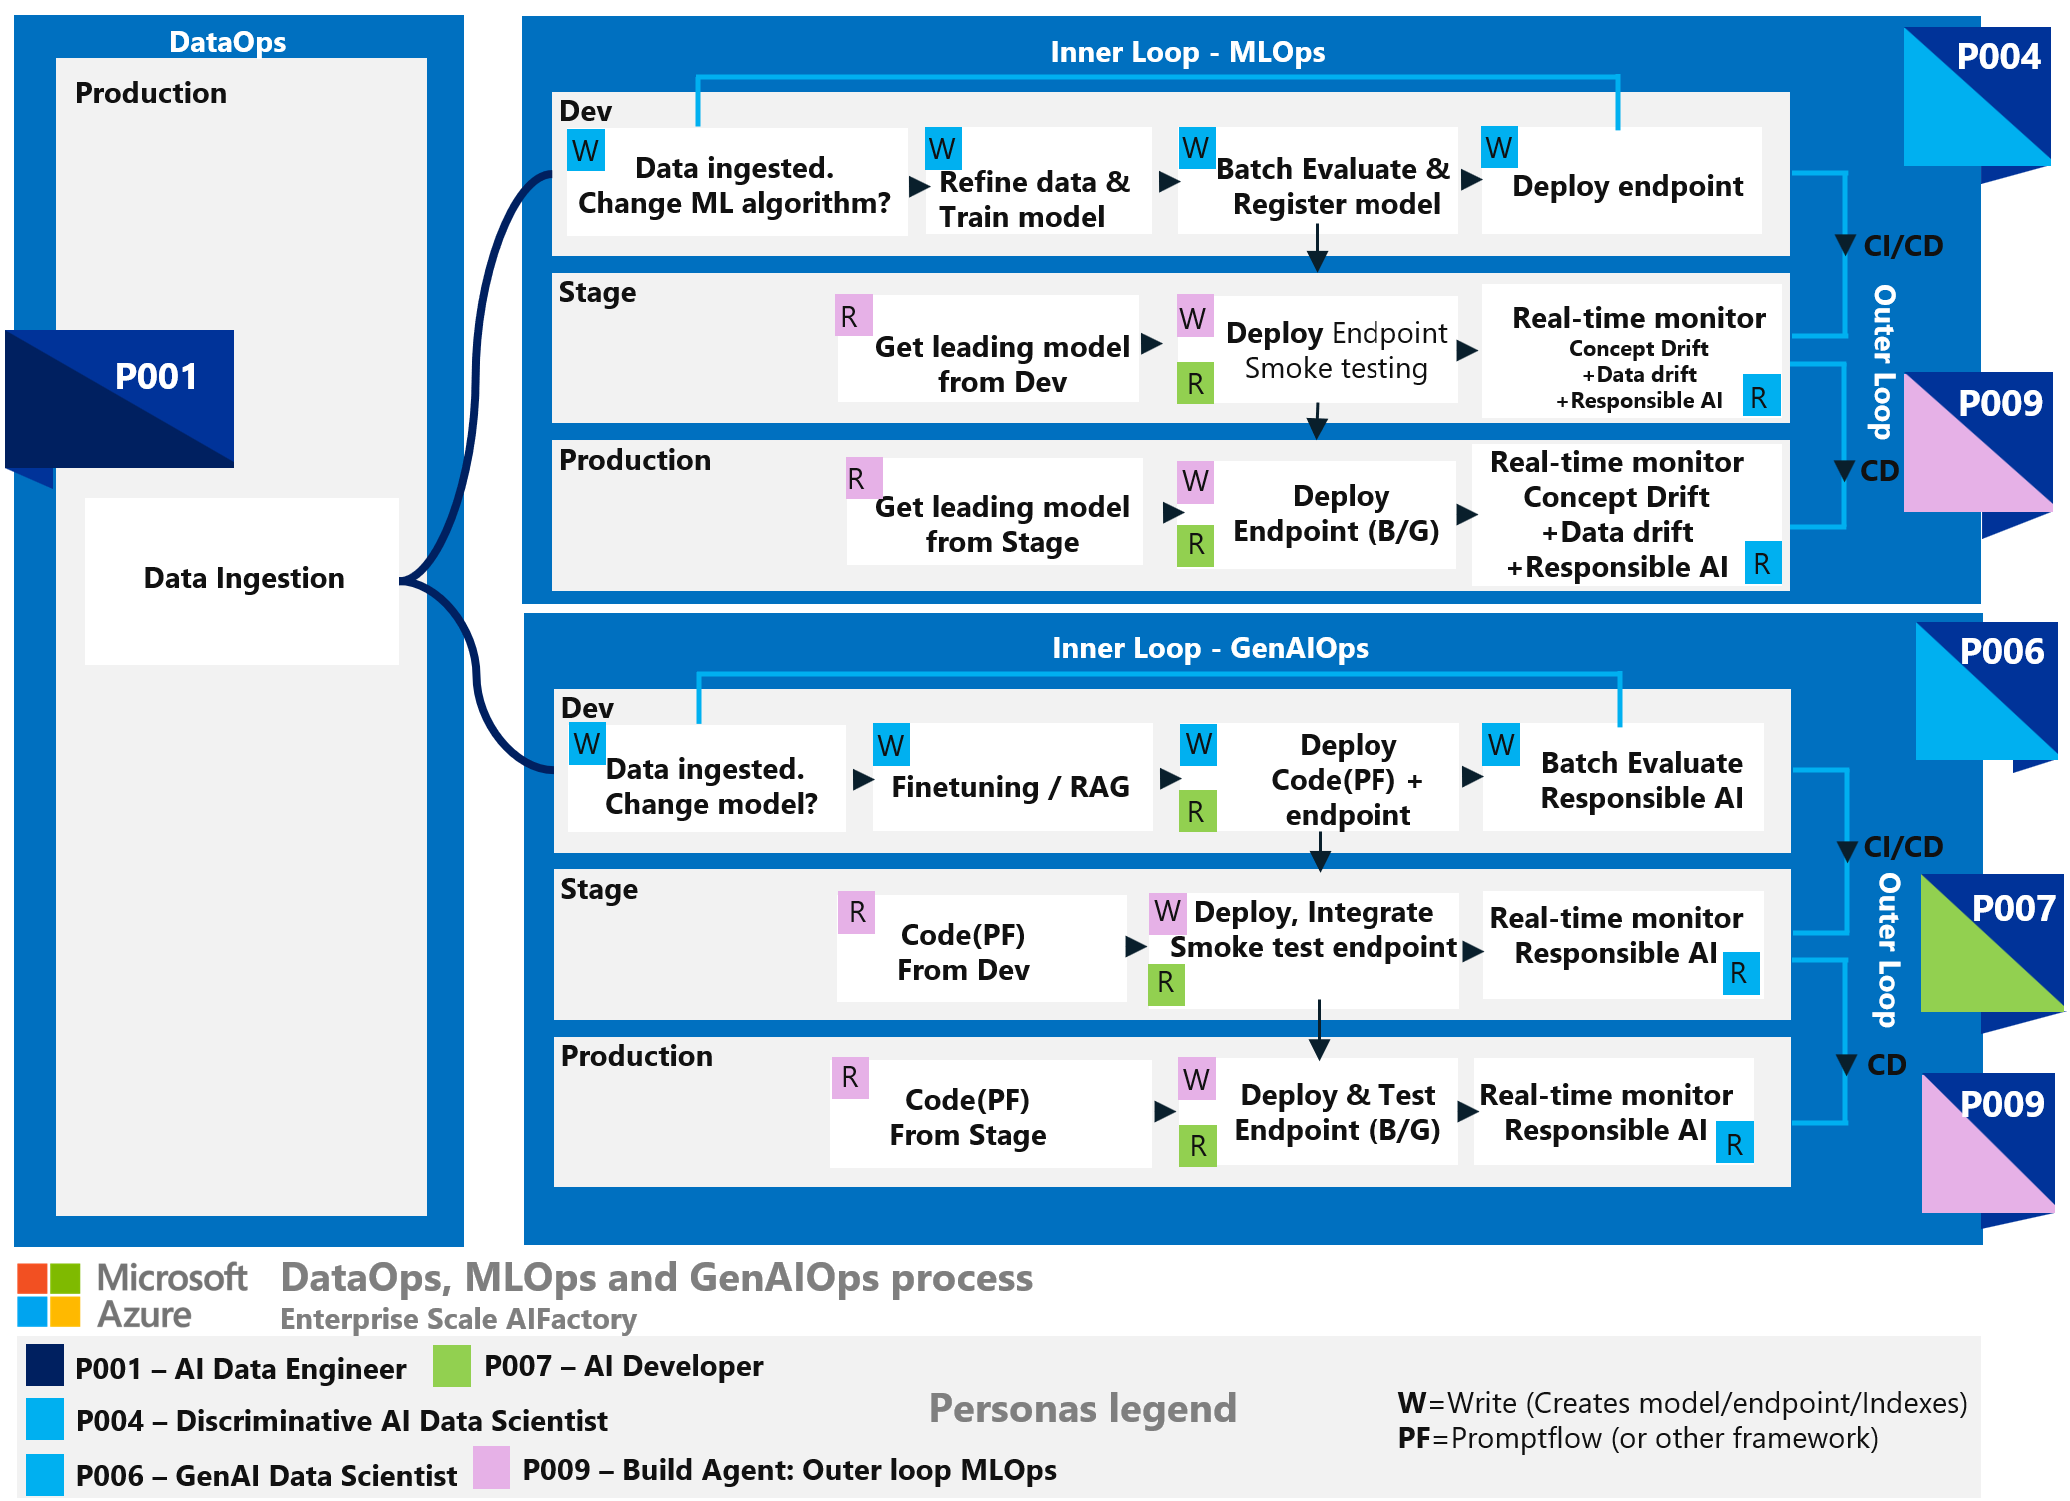
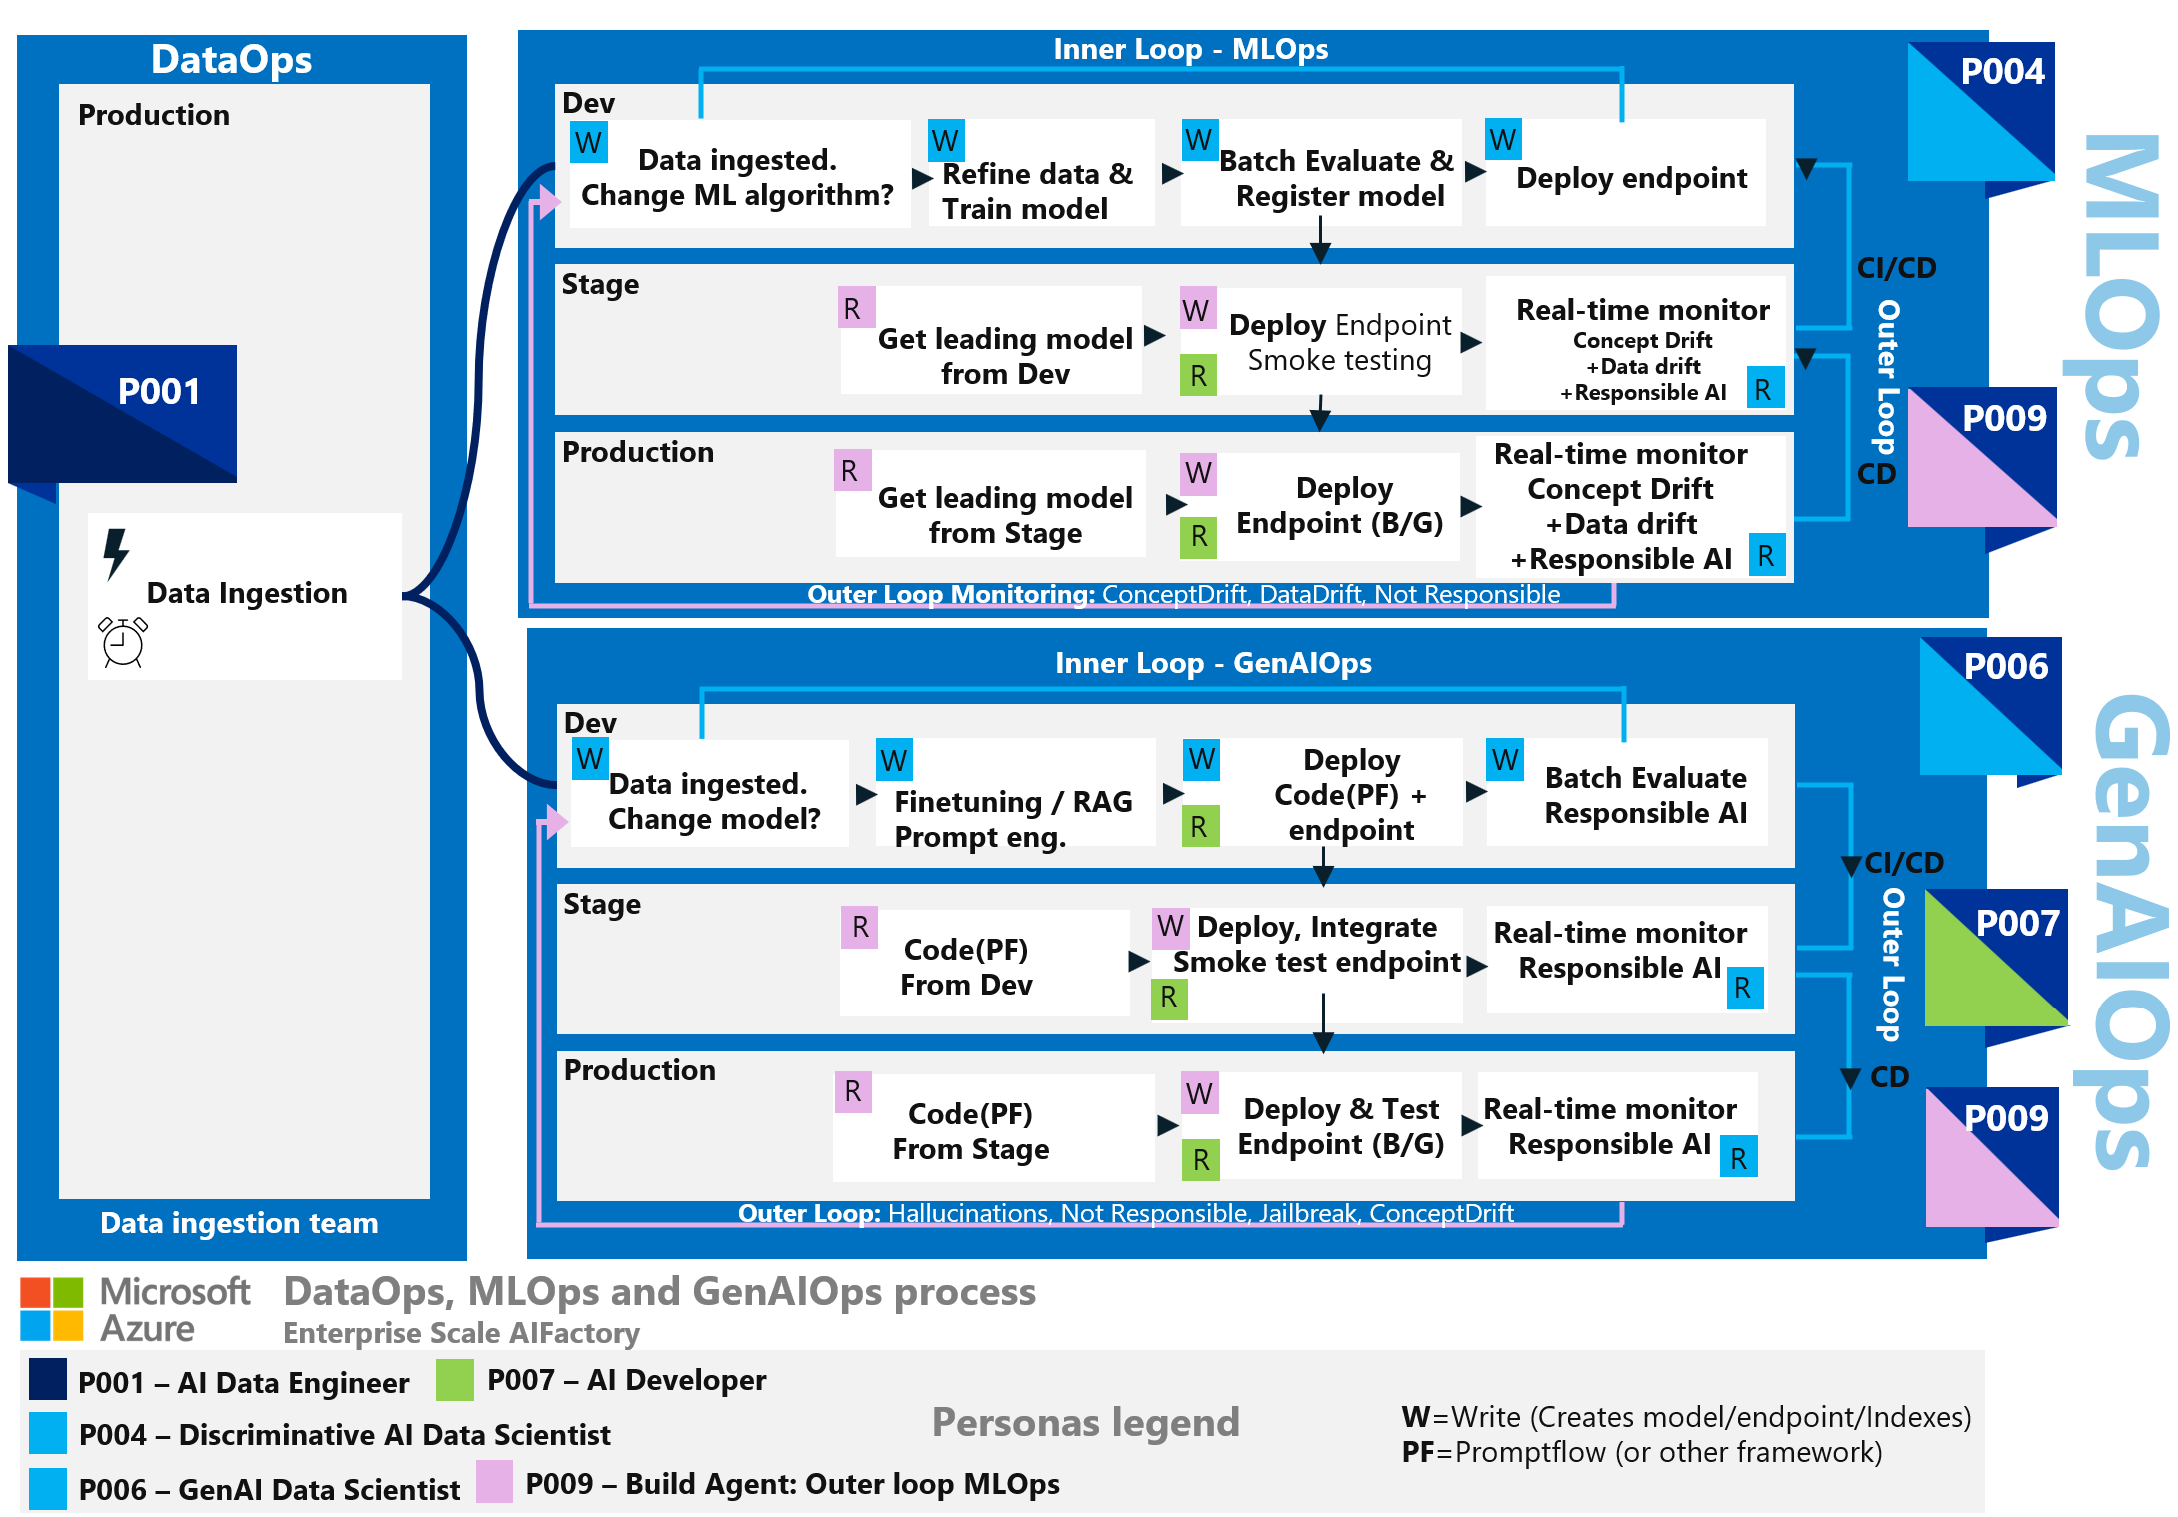
docs

diff --git a/README.md b/README.md
@@ -1,6 +1,6 @@
 # Project: azure-enterprise-scale-ml (ESML) AI Factory 
 The `Enterprise Scale AI Factory` is a plug and play solution that automates the provisioning, deployment, and management of AI projects on Azure with a template way of working.
-- Plug and play accelerator for: DataOps, MLOps, LLMOps, enterprise scale environment.
+- Plug and play accelerator for: DataOps, MLOps, GenAIOps, enterprise scale environment.
 
 ## Main purpose: 
 1) `Marry multiple best practices & accelerators:` It reuses multiple existing Microsoft accelerators/landingzone architecture and best practices such as CAF & WAF, and provides an end-2-end experience including Dev,Test, Prod environments.
@@ -23,7 +23,8 @@ The `Enterprise Scale AI Factory` is a plug and play solution that automates the
 
 -	`Microsoft: AI Factory (CAF/MLOps)` documentation : Machine learning operations - Cloud Adoption Framework | Microsoft Learn
     - https://learn.microsoft.com/en-us/azure/cloud-adoption-framework/ready/azure-best-practices/ai-machine-learning-mlops#ai-factory-for-organization-machine-learning-operations
-    
+
+<!-- 
 ## ESML AIFactory: The 2 project types
 Tehnically, there are two IaC automated project types in the AIFactory: ESML, GenAI. Here they are seen connected to PERSONAS.
 
@@ -38,6 +39,8 @@ Personas is used to:
 [Read more about *personas* ](./documentation/v2/20-29/25-personas.md)
 
 ![](./documentation/v2/10-19/images/10-personas-2-architectures.png)
+
+-->
 
 ## ESML AIFactory: Enterprise Scale Landing Zones Context (VWan option)
 The 2 project types, lives inside of the AIFactory landingzones. 
@@ -63,7 +66,7 @@ It is also organized via the four components of the ESML AIFactory:
 |-----------|--------|----|
 | 1) Infra:AIFactory | CoreTeam | 10-19 |
 | 2) Datalake template | All | 20-29,30-39 |
-| 3) Templates for: DataOps, MLOps, *LLMOps | All | 20-29, 30-39 |
+| 3) Templates for: DataOps, MLOps, *GenAIOps | All | 20-29, 30-39 |
 | 4) Accelerators: ESML SDK (Python, PySpark), RAG Chatbot, etc  |ProjectTeam | 30-39 |
 
 [LINK to Documentation](./documentation/readme.md)

diff --git a/documentation/readme.md b/documentation/readme.md
@@ -15,7 +15,7 @@ It is also organized via the four components of the ESML AIFactory:
 |-----------|------------|----------------|-------|----|
 | 1) Infra:AIFactory | Y | - | CoreTeam | 10-19 |
 | 2) Datalake template | Y | - | All | 20-29,30-39 |
-| 3) Templates for: DataOps, MLOps, *LLMOps | Y | - | All | 20-29, 30-39 |
+| 3) Templates for: DataOps, MLOps, *GenAIOps | Y | - | All | 20-29, 30-39 |
 | 4) Accelerators: ESML SDK (Python, PySpark), RAG Chatbot, etc  | Y | - |ProjectTeam | 30-39 |
 
 # Documenation Executive Summary VS Full documentation
@@ -29,6 +29,7 @@ The current page is only an *executive summary* of the documentation. Go here fo
 
 ![](./v2/10-19/images/14-eslz-full-1.png)
 
+<!-- 
 ## ESML AIFactory: The 2 project types and the AIFactory Personas
 Technically, The AIFactory has automation to setup 2 project types, a set of services glued together with private networking & RBAC, a team gets access to (automation process takes 35min), with templates for DataOps, MLOps or GenAIOps.
 
@@ -43,11 +44,13 @@ Personas is a tool the AIFactory uses to map *tools, processes and people*, to s
 
 ![](./v2/10-19/images/10-personas-2-architectures.png)
 
+-->
+
 ## ESML AIFactory: MLOps Context
 
 ![](./v2/10-19/images/11-architecture-detailed-mlops.png)
 
-## ESML AIFactory: LLMOps Context
+## ESML AIFactory: GenAIOps Context
 
 ![](./v2/10-19/images/11-architecture-detailed-llmops.png)
 
